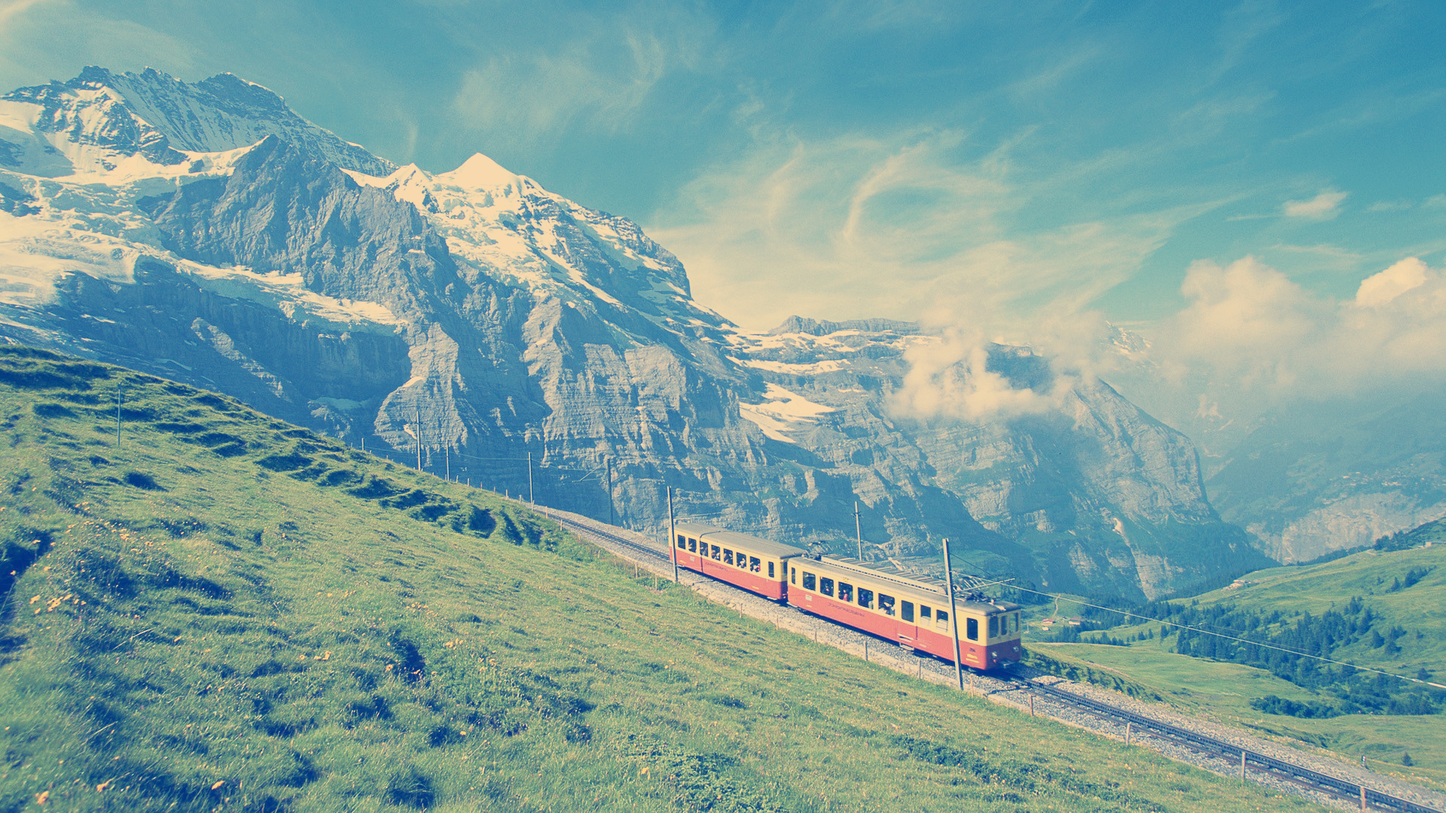
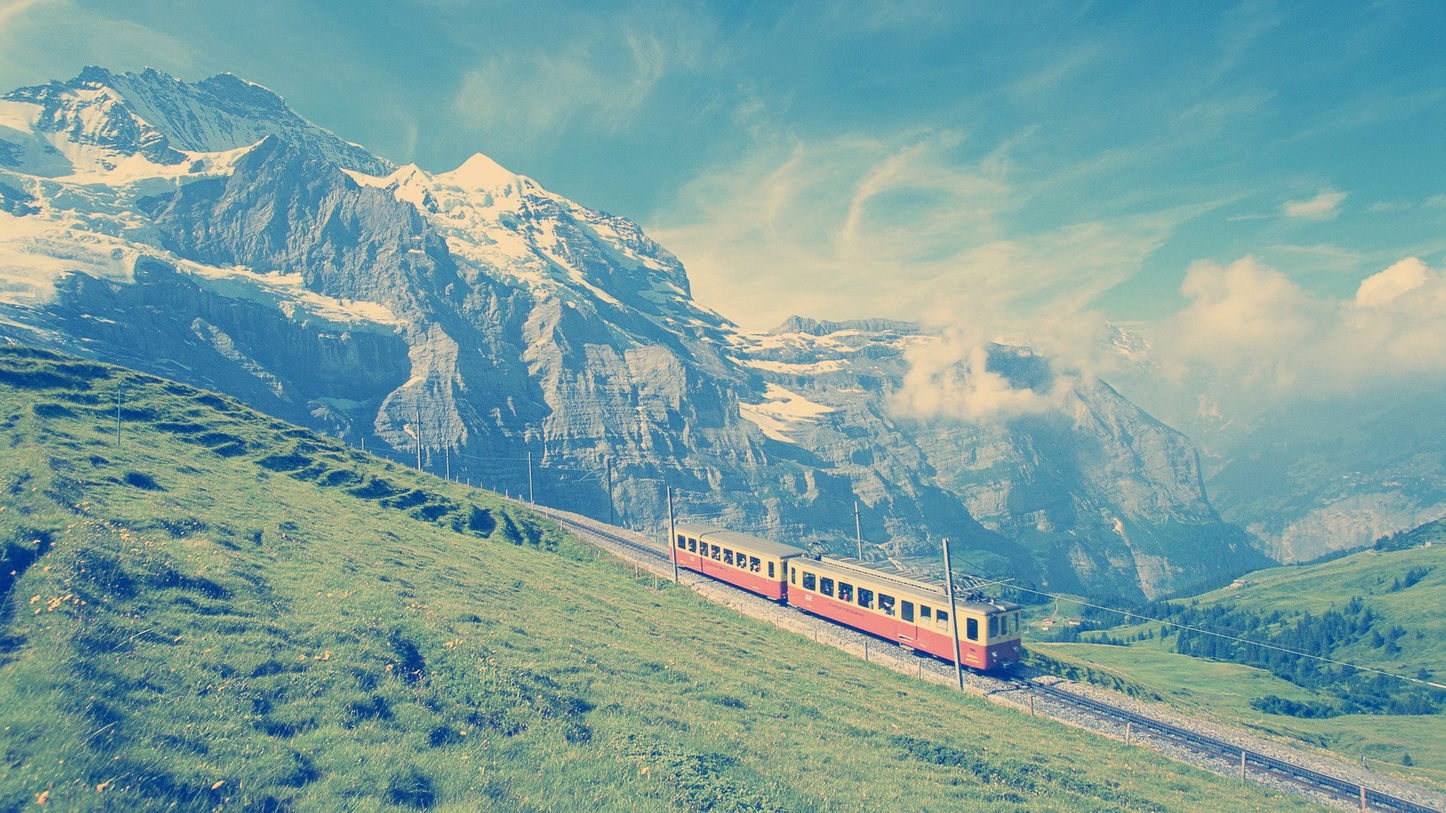
Added lower size versions of backgrounds

diff --git a/homepage/templates/homepage/index.html b/homepage/templates/homepage/index.html
@@ -113,7 +113,7 @@
               <!-- Zucchini -->
                 <section class="wrapper spotlight style3 zucchini">
                   <div class="inner">
-                    <a href="#" class="image"><img src="{% static 'homepage/images/projects/zucchini/logo.min.gif' %}" alt=""></a>
+                    <a href="projects/zucchini" class="image"><img src="{% static 'homepage/images/projects/zucchini/logo.min.gif' %}" alt=""></a>
                     <div class="content">
                       <h2 class="major">Zucchini</h2>
                       <p>
@@ -132,7 +132,7 @@
               <!-- Robot Programming -->
                 <section class="wrapper alt spotlight style4 robot">
                   <div class="inner">
-                    <a href="#" class="image"><img src="{% static 'homepage/images/projects/robot/casterbot.min.jpg' %}" alt=""></a>
+                    <a href="projects/robot" class="image"><img src="{% static 'homepage/images/projects/robot/casterbot.min.jpg' %}" alt=""></a>
                     <div class="content">
                       <h2 class="major">Team Project: Probot Programming</h2>
                       <p>
@@ -151,7 +151,7 @@
               <!-- Portal 2 -->
                 <section class="wrapper spotlight style5 portal">
                   <div class="inner">
-                    <a href="#" class="image"><img src="{% static 'homepage/images/projects/portal/screenshot.min.jpg' %}" alt=""></a>
+                    <a href="projects/portal" class="image"><img src="{% static 'homepage/images/projects/portal/screenshot.min.jpg' %}" alt=""></a>
                     <div class="content">
                       <h2 class="major">Portal 2</h2>
                       <p>
@@ -169,7 +169,7 @@
               <!-- k-means -->
                 <section class="wrapper alt spotlight style6 k-means">
                   <div class="inner">
-                    <a href="#" class="image"><img src="{% static 'homepage/images/projects/k-means/alabama-hills-ca.min.jpg' %}" alt=""></a>
+                    <a href="projects/k-means" class="image"><img src="{% static 'homepage/images/projects/k-means/alabama-hills-ca.min.jpg' %}" alt=""></a>
                     <div class="content">
                       <h2 class="major">k-means</h2>
                       <p>
@@ -187,7 +187,7 @@
               <!-- Equator -->
                 <section class="wrapper spotlight style5 equator">
                   <div class="inner">
-                    <a href="#" class="image"><img src="{% static 'homepage/images/projects/equator/screenshot.jpg' %}" alt=""></a>
+                    <a href="projects/equator" class="image"><img src="{% static 'homepage/images/projects/equator/screenshot.jpg' %}" alt=""></a>
                     <div class="content">
                       <h2 class="major">Equator</h2>
                       <p>
@@ -232,7 +232,7 @@
 
     <!-- Scripts -->
       <script src="{% static 'homepage/js/skel.min.js' %}"></script>
-      <script src="{% static 'homepage/js/jquery.min.js' %}"></script>
+      <script src="//ajax.googleapis.com/ajax/libs/jquery/3.2.1/jquery.min.js"></script>
       <script src="{% static 'homepage/js/jquery.scrollex.min.js' %}"></script>
       <script src="{% static 'homepage/js/util.js' %}"></script>
       <!--[if lte IE 8]><script src="{% static 'homepage/js/ie/respond.min.js' %}"></script><![endif]-->
